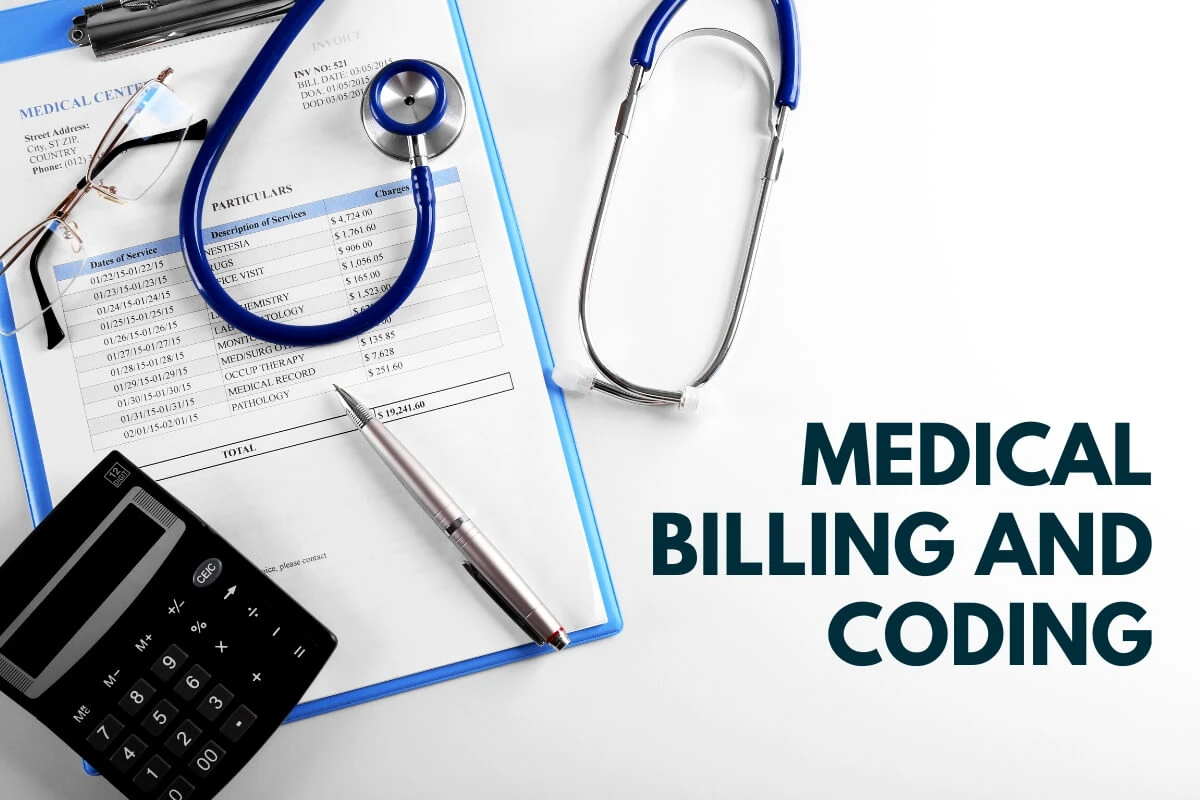
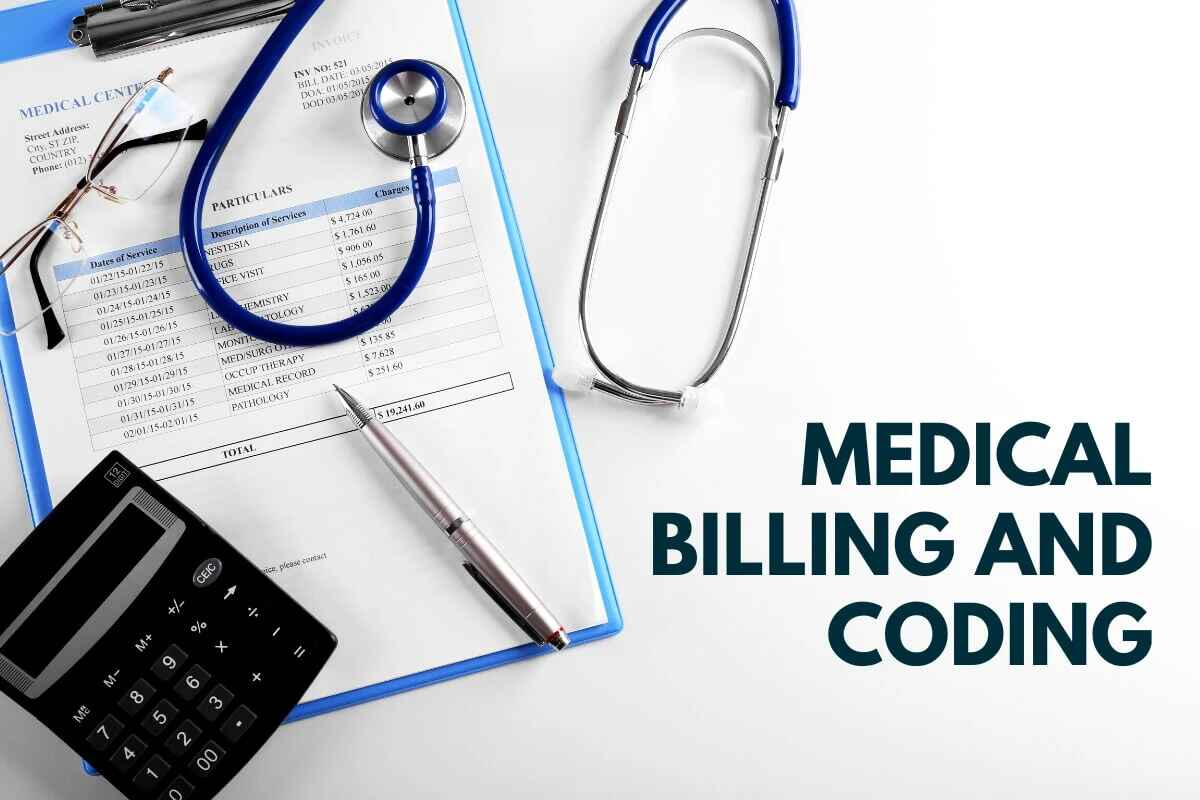
prev prod success, optimized imgs now

diff --git a/src/app/constants.js b/src/app/constants.js
@@ -92,14 +92,14 @@ export const blogData = [
 	},
 	{
 		id: 3,
-		title: "How SEO helps in conversion",
+		title: "Top 5 Benefits of Revenue Cycle Management",
 		description:
-			"In the digital age, where visibility dictates success, SEO acts as the guiding beacon, connecting businesses to their audience and turning searches into meaningful actions.",
-		slug: "SEO-role-in-conversion",
-		imgPath: "/group.jpg",
+			"This guide will explain the steps involved in streamlining the revenue cycle, from the front office to the backend, and offer practical tips to help small practices improve their overall financial management.s",
+		slug: "benefits-of-RCM",
+		imgPath: "/blog2.jpg",
 		date: "24-02-2024",
 		minutes: 12,
-		featuredImage: "/RCM.jpg",
+		featuredImage: "/finance.jpg",
 		content: [
 			{
 				id: 1,
@@ -145,14 +145,14 @@ export const blogData = [
 	},
 	{
 		id: 4,
-		title: "Static UI is Old News, Get into Animation",
+		title: "Medical Billing Solutions for Progressing Firms",
 		description:
-			"In a world where user attention is fleeting, animation transforms static interfaces into dynamic experiences, creating interactions that captivate and engage.",
-		slug: "Static-UI-Get-Animation",
-		imgPath: "/blog2.jpg",
+			"This guide will explain several important medical billing solutions that your firm needs to progress and operate efficiently",
+		slug: "medical-billing-solutions",
+		imgPath: "/hospital.jpg",
 		date: "24-02-2024",
 		minutes: 5,
-		featuredImage: "/RCM.jpg",
+		featuredImage: "/hospital.jpg",
 		content: [
 			{
 				id: 1,
@@ -198,77 +198,78 @@ export const blogData = [
 	},
 	{
 		id: 5,
-		title: "Static UI is Old News, Get into Animation",
+		title: "How Medical Billing helps reduce claim denial",
 		description:
-			"In a world where user attention is fleeting, animation transforms static interfaces into dynamic experiences, creating interactions that captivate and engage.",
-		slug: "Static-UI-Get-Animation",
-		imgPath: "/blog1.jpg",
+			"This guide will explain the effect of medical billing in reducing the amount of claim denials.",
+		slug: "benefits-of-medical-billing",
+		imgPath: "/claim.jpg",
 		date: "24-02-2024",
 		minutes: 5,
 		featuredImage: "/RCM.jpg",
 		content: [
 			{
 				id: 1,
-				heading: "captivating attention through motion",
-				para: `Animation breathes life into static interfaces, capturing user attention in milliseconds. Dynamic elements guide users seamlessly through content, making interactions more engaging and intuitive.`,
+				heading: "why claims get denied",
+				para: `Common reasons include missing info, coding mistakes, late submissions, or non-covered services. These issues slow cash flow and increase admin workload.`,
 			},
 			{
 				id: 2,
-				heading: "enhancing storytelling",
-				para: `Animations transform data and narratives into captivating visual stories. From interactive infographics to animated product showcases, motion design conveys complex ideas effortlessly, leaving a lasting impact on users.`,
+				heading: "accuracy cuts denials",
+				para: `Billing services thoroughly check each claim for errors in patient data, codes, or coverage—reducing denials before submission even happens.`,
 			},
 			{
 				id: 3,
-				heading: "improving user feedback",
-				para: `Interactive animations provide immediate feedback, reducing user frustration. Hover effects, loading animations, and transitions signal system responses, creating a smoother and more satisfying user journey.`,
+				heading: "expert coding matters",
+				para: `Certified coders ensure all procedures are billed correctly using up-to-date ICD-10 and CPT codes—avoiding costly rejections.`,
 			},
 			{
 				id: 4,
-				heading: "boosting brand identity",
-				para: `Well-executed animations become signature elements of a brand's identity. Subtle micro-interactions and animated logos make brands memorable, fostering stronger connections with their audience.`,
+				heading: "never miss a deadline",
+				para: `Automated systems help billing services submit claims on time and follow up on denials quickly—keeping revenue moving.`,
 			},
 			{
 				id: 5,
-				heading: "staying ahead in the digital age",
-				para: `As technology evolves, static designs feel outdated. Embracing animation demonstrates a commitment to innovation, positioning brands as forward-thinking and in tune with modern design trends.`,
+				heading: "financial benefits",
+				para: `Reducing denials boosts cash flow, saves admin time, and helps small practices recover thousands lost to rejected claims.`,
+			},
+			{
+				id: 6,
+				heading: "choosing the right partner",
+				para: `Look for billing services with small-practice experience and smart tech. The right fit can cut denial rates by 80% or more.`,
 			},
 		],
 	},
 	{
 		id: 6,
-		title: "Static UI is Old News, Get into Animation",
+		title: "How to Review your RCM to increase efficiency and progress",
 		description:
-			"In a world where user attention is fleeting, animation transforms static interfaces into dynamic experiences, creating interactions that captivate and engage.",
-		slug: "Static-UI-Get-Animation",
-		imgPath: "/blog2.jpg",
+			"In this article, we will learn how to review important aspects like claim management, KPIs of your firm that helps in optimizing your revenue cycle.",
+		slug: "review-your-RCM",
+		imgPath: "/data.jpg",
 		date: "24-02-2024",
 		minutes: 5,
 		featuredImage: "/RCM.jpg",
 		content: [
 			{
 				id: 1,
-				heading: "captivating attention through motion",
-				para: `Animation breathes life into static interfaces, capturing user attention in milliseconds. Dynamic elements guide users seamlessly through content, making interactions more engaging and intuitive.`,
+				heading:
+					"How to Review Your Revenue Cycle Process to Promote Practice Success",
+				para: `Those in the healthcare industry are certainly no strangers to insurance claim payments being delayed or denied. Practices facing this issue are at great risk for losing out on revenue each year, with an estimated 25% of denied claims never being paid at all. If your organization’s denial rates are particularly high, it’s crucial to address and resolve these issues to continue serving patients and generating revenue. One of the most effective ways to prevent such denials is by evaluating and assessing your practice’s revenue cycle.`,
 			},
 			{
 				id: 2,
-				heading: "enhancing storytelling",
-				para: `Animations transform data and narratives into captivating visual stories. From interactive infographics to animated product showcases, motion design conveys complex ideas effortlessly, leaving a lasting impact on users.`,
+				heading: "Why Do Insurance Claims Get Denied?",
+				para: `According to MGMA data, there are several common reasons for insurance claim denials. The most frequent cause is missing or incorrect information, such as demographic details, procedural codes, or diagnosis codes. Another major issue is the failure to conduct prior authorization. Additional causes include not meeting medical necessity requirements, procedures not being covered due to eligibility issues, payer processing errors, providers being out of network, and complications with coordination of benefits. These denials lead to revenue loss and create more work for billing staff, who must then reevaluate and resubmit the claims. Performing a revenue cycle assessment can significantly reduce these occurrences.`,
 			},
 			{
 				id: 3,
-				heading: "improving user feedback",
-				para: `Interactive animations provide immediate feedback, reducing user frustration. Hover effects, loading animations, and transitions signal system responses, creating a smoother and more satisfying user journey.`,
+				heading: "How to Assess Your Revenue Cycle",
+				para: `A thorough assessment helps your practice avoid claim denials and maintain steady reimbursement. One important step is understanding your key performance indicators, such as net collection rate and days in accounts receivable, and comparing them with industry standards. This allows you to identify areas for improvement. Evaluating the current workflow from registration through insurance follow-up helps expose inefficiencies. It's also essential to assess the tools and software used in the process and gather staff feedback to understand what works well. Reviewing staffing levels is equally important, including how many people are needed at each step, and how factors like patient demographics and technology affect workflow. This assessment helps inform better staffing decisions going forward.`,
 			},
 			{
 				id: 4,
-				heading: "boosting brand identity",
-				para: `Well-executed animations become signature elements of a brand's identity. Subtle micro-interactions and animated logos make brands memorable, fostering stronger connections with their audience.`,
-			},
-			{
-				id: 5,
-				heading: "staying ahead in the digital age",
-				para: `As technology evolves, static designs feel outdated. Embracing animation demonstrates a commitment to innovation, positioning brands as forward-thinking and in tune with modern design trends.`,
+				heading: "Expert Revenue Cycle Management from RoyalCom",
+				para: `A comprehensive review of your revenue cycle can greatly reduce claim denials, improve cash flow, and lead to better practice performance. RoyalCom specializes in revenue cycle management for healthcare providers, helping streamline billing operations and improve financial outcomes. By partnering with RoyalCom, your practice can accelerate turnaround times, avoid delays in reimbursement, and maximize revenue collection. Our expert analysis services provide insights into where your process can be improved, so you can make informed changes. RoyalCom offers a wide range of practice management services to support your growth and success in a competitive healthcare environment.`,
 			},
 		],
 	},

diff --git a/src/app/components/Services.jsx b/src/app/components/Services.jsx
@@ -15,7 +15,7 @@ const Services = ({ variation, containerClass = "" }) => {
 				<ServiceCard
 					pagetype="services"
 					cardData={serviceData}
-					gridClass="absolute w-screen bottom-0 left-0 max-w-[120em] w-full"
+					gridClass="absolute w-screen bottom-0 left-0 2xl:min-w-[130em] w-full"
 					cardClass="flex h-full min-h-[25rem] w-full max-w-[355px] flex-shrink-0 snap-start flex-col items-center justify-between gap-y-2 border border-myblack-150/30 transition-all duration-300 ease-in-out sm:max-w-sm xl:max-w-[400px] 2xl:max-w-md 3xl:max-w-lg"
 				/>
 			</div>
@@ -33,7 +33,7 @@ const Services = ({ variation, containerClass = "" }) => {
 				<ServiceCard
 					pagetype="services"
 					cardData={serviceData}
-					gridClass="absolute w-screen bottom-0 left-0 max-w-[120em] w-full"
+					gridClass="absolute w-screen bottom-0 left-0 2xl:min-w-[130em] w-full"
 					cardClass="flex h-full min-h-[25rem] w-full max-w-[355px] flex-shrink-0 snap-start flex-col items-center justify-between gap-y-2 border border-myblack-150/30 transition-all duration-300 ease-in-out sm:max-w-sm xl:max-w-[400px] 2xl:max-w-md 3xl:max-w-lg"
 				/>
 			</div>

diff --git a/src/app/components/ui/BlogCardGrid.jsx b/src/app/components/ui/BlogCardGrid.jsx
@@ -36,7 +36,7 @@ export const BlogCard = ({ card }) => {
 						<div className="w-full flex flex-col gap-2">
 							<div className="flex w-full justify-between">
 								<h2
-									className={`group-hover:text-blue-400 min-h-14 2xl:text-lg duration-300 transition-all ease-in-out `}
+									className={`group-hover:text-blue-400 min-h-14 2xl:text-lg duration-300 capitalize font-normal transition-all ease-in-out `}
 								>
 									{card.title}
 								</h2>
@@ -45,7 +45,7 @@ export const BlogCard = ({ card }) => {
 								/>
 							</div>
 							<div
-								className={`h-[1.3px] w-80 bg-myblack-200 outline-0 sm:w-full `}
+								className={`h-[1.25px] w-80 bg-myblack-200 outline-0 sm:w-full `}
 							/>
 							<div className="flex justify-between w-full">
 								<span>{card.date}</span>

diff --git a/src/app/components/ui/BenefitCard.jsx b/src/app/components/ui/BenefitCard.jsx
@@ -22,7 +22,7 @@ const BenefitCard = ({ cardData }) => {
 							{benefit.headline}
 						</span>
 					</div>
-					<div className="relative h-[10rem] rounded lg:h-[13rem] 2xl:h-[15rem]">
+					<div className="relative h-[8rem] max-sm:w-32 place-self-end  self-center rounded lg:h-[13rem] 2xl:h-[15rem]">
 						<StaticImg
 							fill
 							alt="alt text"

diff --git a/src/app/contact/page.jsx b/src/app/contact/page.jsx
@@ -7,8 +7,8 @@ const contactPage = () => {
 			<SecHero
 				heading="it's time to connect"
 				subheading="Call at +92 345 2787638 anytime for a free consultation. Drop a message if you have any concerns."
-				img1src="/telehealth.jpg"
-				img2src="/group.jpg"
+				img1src="/building3.jpg"
+				img2src="/stairs2.jpg"
 			/>
 		</div>
 	);

diff --git a/src/app/blogs/page.jsx b/src/app/blogs/page.jsx
@@ -9,8 +9,8 @@ const BlogPage = () => {
 			<SecHero
 				heading="Blogs & articles"
 				subheading=""
-				img1src="/RCM.jpg"
-				img2src="/CSR.jpg"
+				img1src="/finance.jpg"
+				img2src="/nurse.jpg"
 			/>
 			<div
 				className={`flex w-screen flex-col justify-center ${paddingClass} xl:items-center`}
